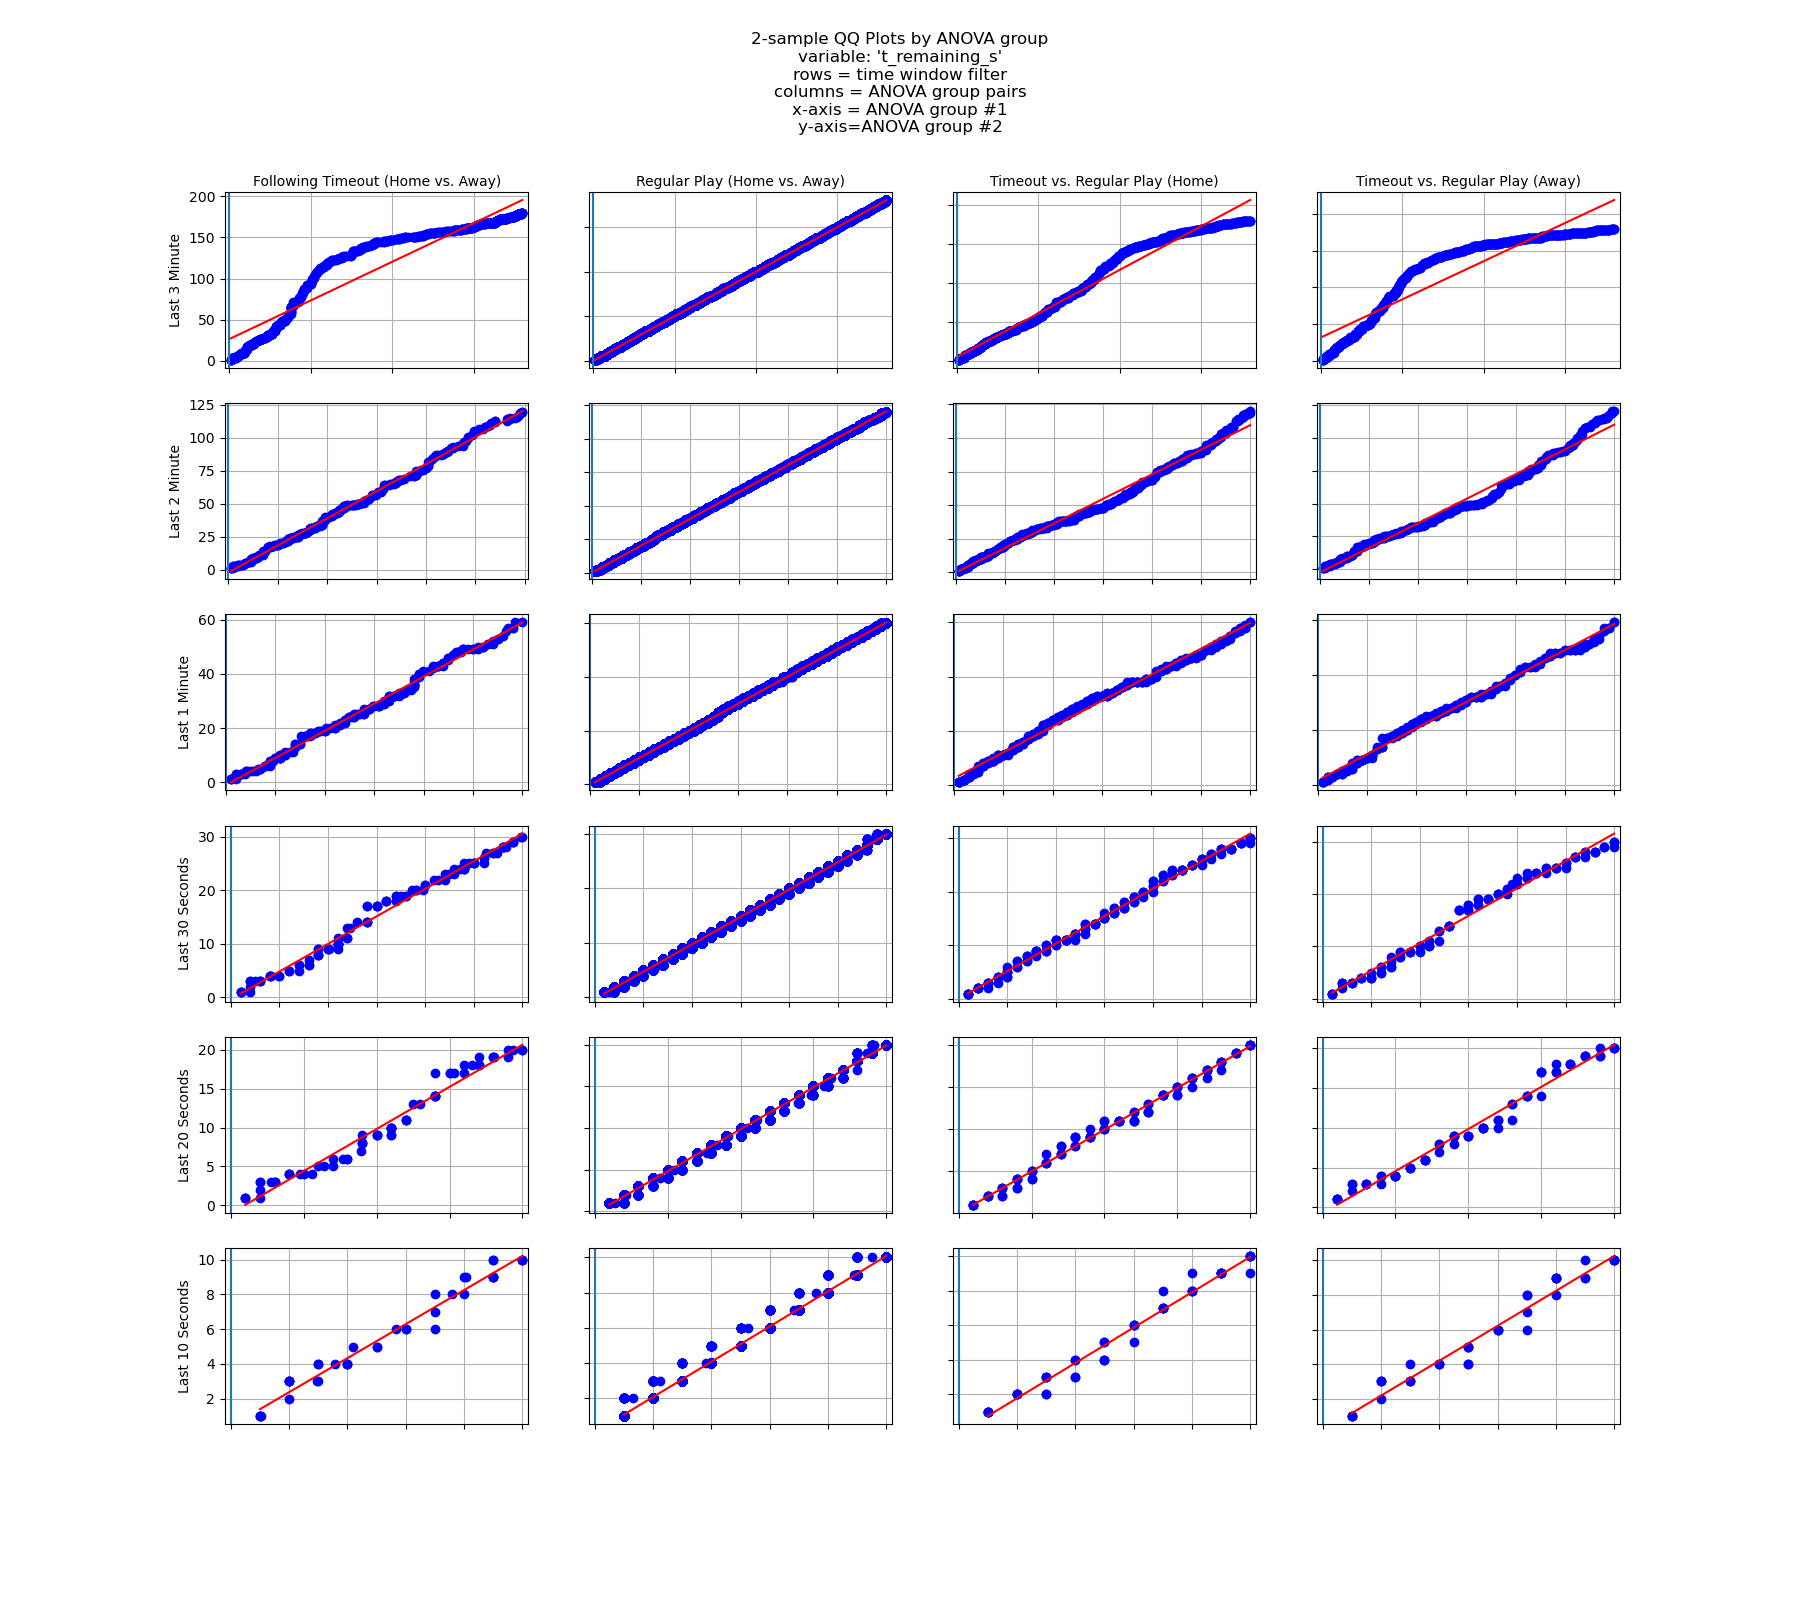
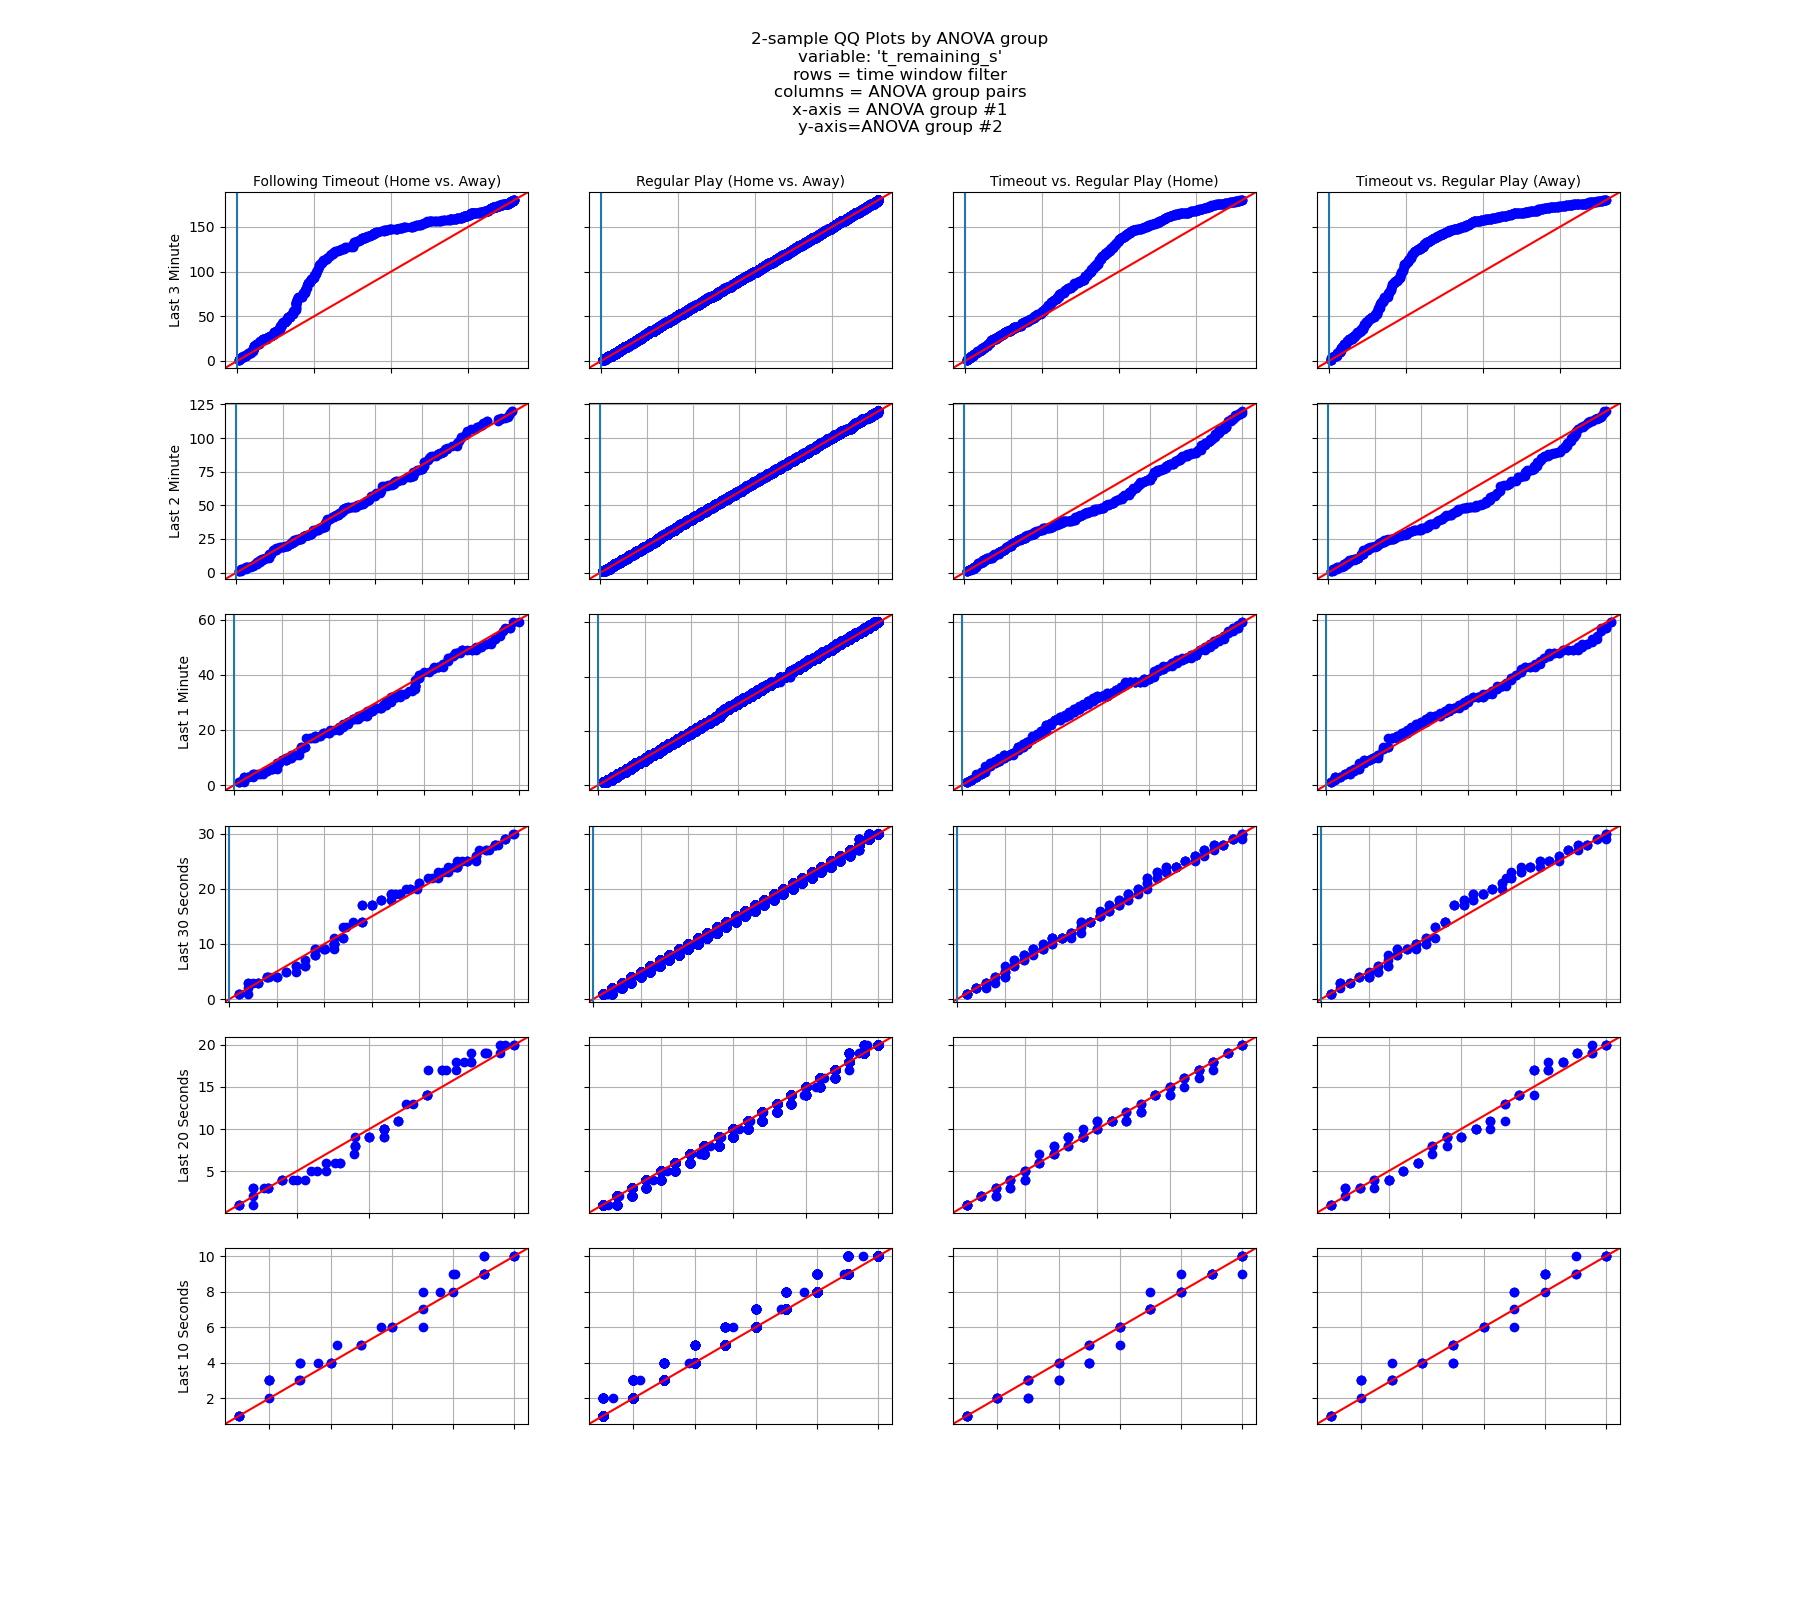
need to use 45-degree line in pairwise QQ

diff --git a/qqplot.py b/qqplot.py
@@ -134,7 +134,7 @@ def plot_qq_pairs(d_datasets_pairs: OrderedDict, var_name: str = 't_remaining_s'
             i += 1
             _ax = plt.subplot(n_datasets, m_per_dataset, i)
             # _res = stats.probplot(sample, plot=plt)
-            _res = qqplot_2samples(data1=sample[0], data2=sample[1], ax=_ax, line='r')
+            _res = qqplot_2samples(data1=sample[0], data2=sample[1], ax=_ax, line='45')
             _ax.set_title("")
             _ax.grid(True)
             _ax.set_xticklabels([])
